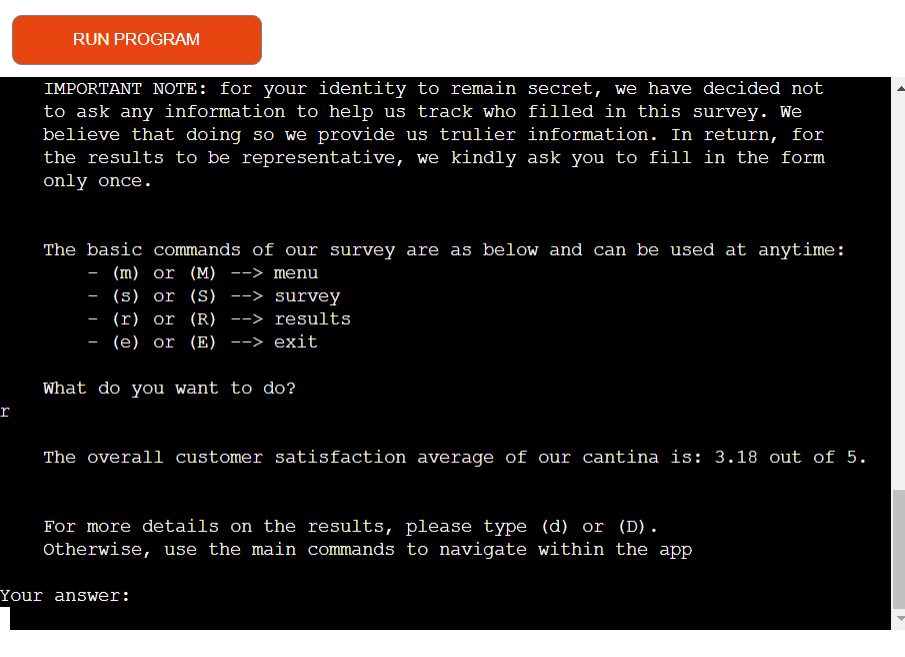
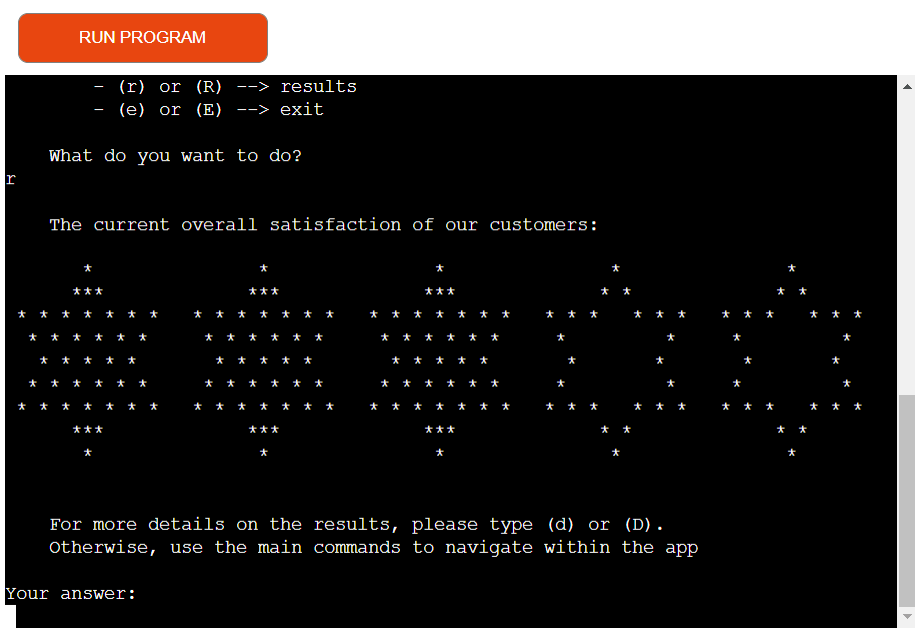
Update screenshot of results

diff --git a/run.py b/run.py
@@ -210,12 +210,14 @@ def show_results(user_answers: list, starting_question: int) -> None:
         average_satisfaction_per_question.append((question.name, sum(column:=survey_num_results.get(question.name)) / len(column)))
     overall_satisfaction_average = calculate_overall_satisfaction_average(average_satisfaction_per_question)
     print()
-    print(f"    The current overall satisfaction of our customers:")
+    print("    --------------------------------------------------")
+    print("    The current overall satisfaction of our customers:")
     display_5_stars_rating(overall_satisfaction_average)
     print("""
     For more details on the results, please type (d) or (D).
     Otherwise, use the main commands to navigate within the app
     """)
+    print("    --------------------------------------------------")
     answer = input("Your answer: \n")
     if answer.lower() == "d":
         convert_results_into_charts(survey_text_results)
@@ -234,135 +236,135 @@ def calculate_overall_satisfaction_average(average_satisfaction_per_question: li
 def display_5_stars_rating(average: float) -> str:
     if 0 <= average < 0.5:
         rating = """
-       *               *               *               *               *        
-      * *             * *             * *             * *             * *       
- * * *   * * *   * * *   * * *   * * *   * * *   * * *   * * *   * * *   * * *  
-  *         *     *         *     *         *     *         *     *         *   
-   *       *       *       *       *       *       *       *       *       *    
-  *         *     *         *     *         *     *         *     *         *   
- * * *   * * *   * * *   * * *   * * *   * * *   * * *   * * *   * * *   * * *  
-      * *             * *             * *             * *             * *       
-       *               *               *               *               *        
+       *               *               *               *               *
+      * *             * *             * *             * *             * *
+ * * *   * * *   * * *   * * *   * * *   * * *   * * *   * * *   * * *   * * *
+  *         *     *         *     *         *     *         *     *         *
+   *       *       *       *       *       *       *       *       *       *
+  *         *     *         *     *         *     *         *     *         *
+ * * *   * * *   * * *   * * *   * * *   * * *   * * *   * * *   * * *   * * *
+      * *             * *             * *             * *             * *
+       *               *               *               *               *
         """
     elif 0.5 <= average < 1:
         rating = """
-       *               *               *               *               *        
-      ***             * *             * *             * *             * *       
- * * * * * * *   * * *   * * *   * * *   * * *   * * *   * * *   * * *   * * *  
-  * * *     *     *         *     *         *     *         *     *         *   
-   * * *   *       *       *       *       *       *       *       *       *    
-  * * *     *     *         *     *         *     *         *     *         *   
- * * * * * * *   * * *   * * *   * * *   * * *   * * *   * * *   * * *   * * *  
-      ***             * *             * *             * *             * *       
-       *               *               *               *               *        
+       *               *               *               *               *
+      ***             * *             * *             * *             * *
+ * * * * * * *   * * *   * * *   * * *   * * *   * * *   * * *   * * *   * * *
+  * * *     *     *         *     *         *     *         *     *         *
+   * * *   *       *       *       *       *       *       *       *       *
+  * * *     *     *         *     *         *     *         *     *         *
+ * * * * * * *   * * *   * * *   * * *   * * *   * * *   * * *   * * *   * * *
+      ***             * *             * *             * *             * *
+       *               *               *               *               *
         """
     elif 1 <= average < 1.5:
         rating = """
-       *               *               *               *               *        
-      ***             * *             * *             * *             * *       
- * * * * * * *   * * *   * * *   * * *   * * *   * * *   * * *   * * *   * * *  
-  * * * * * *     *         *     *         *     *         *     *         *   
-   * * * * *       *       *       *       *       *       *       *       *    
-  * * * * * *     *         *     *         *     *         *     *         *   
- * * * * * * *   * * *   * * *   * * *   * * *   * * *   * * *   * * *   * * *  
-      ***             * *             * *             * *             * *       
-       *               *               *               *               *        
+       *               *               *               *               *
+      ***             * *             * *             * *             * *
+ * * * * * * *   * * *   * * *   * * *   * * *   * * *   * * *   * * *   * * *
+  * * * * * *     *         *     *         *     *         *     *         *
+   * * * * *       *       *       *       *       *       *       *       *
+  * * * * * *     *         *     *         *     *         *     *         *
+ * * * * * * *   * * *   * * *   * * *   * * *   * * *   * * *   * * *   * * *
+      ***             * *             * *             * *             * *
+       *               *               *               *               *
         """
     elif 1.5 <= average < 2:
         rating = """
-       *               *               *               *               *        
-      ***             ***             * *             * *             * *       
- * * * * * * *   * * * * * * *   * * *   * * *   * * *   * * *   * * *   * * *  
-  * * * * * *     * * *     *     *         *     *         *     *         *   
-   * * * * *       * * *   *       *       *       *       *       *       *    
-  * * * * * *     * * *     *     *         *     *         *     *         *   
- * * * * * * *   * * * * * * *   * * *   * * *   * * *   * * *   * * *   * * *  
-      ***             ***             * *             * *             * *       
-       *               *               *               *               *        
+       *               *               *               *               *
+      ***             ***             * *             * *             * *
+ * * * * * * *   * * * * * * *   * * *   * * *   * * *   * * *   * * *   * * *
+  * * * * * *     * * *     *     *         *     *         *     *         *
+   * * * * *       * * *   *       *       *       *       *       *       *
+  * * * * * *     * * *     *     *         *     *         *     *         *
+ * * * * * * *   * * * * * * *   * * *   * * *   * * *   * * *   * * *   * * *
+      ***             ***             * *             * *             * *
+       *               *               *               *               *
         """
     elif 2 <= average < 2.5:
         rating = """
-       *               *               *               *               *        
-      ***             ***             * *             * *             * *       
- * * * * * * *   * * * * * * *   * * *   * * *   * * *   * * *   * * *   * * *  
-  * * * * * *     * * * * * *     *         *     *         *     *         *   
-   * * * * *       * * * * *       *       *       *       *       *       *    
-  * * * * * *     * * * * * *     *         *     *         *     *         *   
- * * * * * * *   * * * * * * *   * * *   * * *   * * *   * * *   * * *   * * *  
-      ***             ***             * *             * *             * *       
-       *               *               *               *               *        
+       *               *               *               *               *
+      ***             ***             * *             * *             * *
+ * * * * * * *   * * * * * * *   * * *   * * *   * * *   * * *   * * *   * * *
+  * * * * * *     * * * * * *     *         *     *         *     *         *
+   * * * * *       * * * * *       *       *       *       *       *       *
+  * * * * * *     * * * * * *     *         *     *         *     *         *
+ * * * * * * *   * * * * * * *   * * *   * * *   * * *   * * *   * * *   * * *
+      ***             ***             * *             * *             * *
+       *               *               *               *               *
         """
     elif 2.5 <= average < 3:
         rating = """
-       *               *               *               *               *        
-      ***             ***             ***             * *             * *       
- * * * * * * *   * * * * * * *   * * * * * * *   * * *   * * *   * * *   * * *  
-  * * * * * *     * * * * * *     * * *     *     *         *     *         *   
-   * * * * *       * * * * *       * * *   *       *       *       *       *    
-  * * * * * *     * * * * * *     * * *     *     *         *     *         *   
- * * * * * * *   * * * * * * *   * * * * * * *   * * *   * * *   * * *   * * *  
-      ***             ***             ***             * *             * *       
-       *               *               *               *               *        
+       *               *               *               *               *
+      ***             ***             ***             * *             * *
+ * * * * * * *   * * * * * * *   * * * * * * *   * * *   * * *   * * *   * * *
+  * * * * * *     * * * * * *     * * *     *     *         *     *         *
+   * * * * *       * * * * *       * * *   *       *       *       *       *
+  * * * * * *     * * * * * *     * * *     *     *         *     *         *
+ * * * * * * *   * * * * * * *   * * * * * * *   * * *   * * *   * * *   * * *
+      ***             ***             ***             * *             * *
+       *               *               *               *               *
         """
     elif 3 <= average < 3.5:
         rating = """
-       *               *               *               *               *        
-      ***             ***             ***             * *             * *       
- * * * * * * *   * * * * * * *   * * * * * * *   * * *   * * *   * * *   * * *  
-  * * * * * *     * * * * * *     * * * * * *     *         *     *         *   
-   * * * * *       * * * * *       * * * * *       *       *       *       *    
-  * * * * * *     * * * * * *     * * * * * *     *         *     *         *   
- * * * * * * *   * * * * * * *   * * * * * * *   * * *   * * *   * * *   * * *  
-      ***             ***             ***             * *             * *       
-       *               *               *               *               *        
+       *               *               *               *               *
+      ***             ***             ***             * *             * *
+ * * * * * * *   * * * * * * *   * * * * * * *   * * *   * * *   * * *   * * *
+  * * * * * *     * * * * * *     * * * * * *     *         *     *         *
+   * * * * *       * * * * *       * * * * *       *       *       *       *
+  * * * * * *     * * * * * *     * * * * * *     *         *     *         *
+ * * * * * * *   * * * * * * *   * * * * * * *   * * *   * * *   * * *   * * *
+      ***             ***             ***             * *             * *
+       *               *               *               *               *
         """
     elif 3.5 <= average < 4:
         rating = """
-       *               *               *               *               *        
-      ***             ***             ***             ***             * *       
- * * * * * * *   * * * * * * *   * * * * * * *   * * * * * * *   * * *   * * *  
-  * * * * * *     * * * * * *     * * * * * *     * * *     *     *         *   
-   * * * * *       * * * * *       * * * * *       * * *   *       *       *    
-  * * * * * *     * * * * * *     * * * * * *     * * *     *     *         *   
- * * * * * * *   * * * * * * *   * * * * * * *   * * * * * * *   * * *   * * *  
-      ***             ***             ***             ***             * *       
-       *               *               *               *               *        
+       *               *               *               *               *
+      ***             ***             ***             ***             * *
+ * * * * * * *   * * * * * * *   * * * * * * *   * * * * * * *   * * *   * * *
+  * * * * * *     * * * * * *     * * * * * *     * * *     *     *         *
+   * * * * *       * * * * *       * * * * *       * * *   *       *       *
+  * * * * * *     * * * * * *     * * * * * *     * * *     *     *         *
+ * * * * * * *   * * * * * * *   * * * * * * *   * * * * * * *   * * *   * * *
+      ***             ***             ***             ***             * *
+       *               *               *               *               *
         """
     elif 4 <= average < 4.5:
         rating = """
-       *               *               *               *               *        
-      ***             ***             ***             ***             * *       
- * * * * * * *   * * * * * * *   * * * * * * *   * * * * * * *   * * *   * * *  
-  * * * * * *     * * * * * *     * * * * * *     * * * * * *     *         *   
-   * * * * *       * * * * *       * * * * *       * * * * *       *       *    
-  * * * * * *     * * * * * *     * * * * * *     * * * * * *     *         *   
- * * * * * * *   * * * * * * *   * * * * * * *   * * * * * * *   * * *   * * *  
-      ***             ***             ***             ***             * *       
-       *               *               *               *               *        
+       *               *               *               *               *
+      ***             ***             ***             ***             * *
+ * * * * * * *   * * * * * * *   * * * * * * *   * * * * * * *   * * *   * * *
+  * * * * * *     * * * * * *     * * * * * *     * * * * * *     *         *
+   * * * * *       * * * * *       * * * * *       * * * * *       *       *
+  * * * * * *     * * * * * *     * * * * * *     * * * * * *     *         *
+ * * * * * * *   * * * * * * *   * * * * * * *   * * * * * * *   * * *   * * *
+      ***             ***             ***             ***             * *
+       *               *               *               *               *
         """
     elif 4.5 <= average < 5:
         rating = """
-       *               *               *               *               *        
-      ***             ***             ***             ***             ***       
- * * * * * * *   * * * * * * *   * * * * * * *   * * * * * * *   * * * * * * *  
-  * * * * * *     * * * * * *     * * * * * *     * * * * * *     * * *     *   
-   * * * * *       * * * * *       * * * * *       * * * * *       * * *   *    
-  * * * * * *     * * * * * *     * * * * * *     * * * * * *     * * *     *   
- * * * * * * *   * * * * * * *   * * * * * * *   * * * * * * *   * * * * * * *  
-      ***             ***             ***             ***             ***       
-       *               *               *               *               *        
+       *               *               *               *               *
+      ***             ***             ***             ***             ***
+ * * * * * * *   * * * * * * *   * * * * * * *   * * * * * * *   * * * * * * *
+  * * * * * *     * * * * * *     * * * * * *     * * * * * *     * * *     *
+   * * * * *       * * * * *       * * * * *       * * * * *       * * *   *
+  * * * * * *     * * * * * *     * * * * * *     * * * * * *     * * *     *
+ * * * * * * *   * * * * * * *   * * * * * * *   * * * * * * *   * * * * * * *
+      ***             ***             ***             ***             ***
+       *               *               *               *               *
         """
     else:
         rating = """
-       *               *               *               *               *        
-      ***             ***             ***             ***             ***       
- * * * * * * *   * * * * * * *   * * * * * * *   * * * * * * *   * * * * * * *  
-  * * * * * *     * * * * * *     * * * * * *     * * * * * *     * * * * * *   
-   * * * * *       * * * * *       * * * * *       * * * * *       * * * * *    
-  * * * * * *     * * * * * *     * * * * * *     * * * * * *     * * * * * *   
- * * * * * * *   * * * * * * *   * * * * * * *   * * * * * * *   * * * * * * *  
-      ***             ***             ***             ***             ***       
-       *               *               *               *               *        
+       *               *               *               *               *
+      ***             ***             ***             ***             ***
+ * * * * * * *   * * * * * * *   * * * * * * *   * * * * * * *   * * * * * * *
+  * * * * * *     * * * * * *     * * * * * *     * * * * * *     * * * * * *
+   * * * * *       * * * * *       * * * * *       * * * * *       * * * * *
+  * * * * * *     * * * * * *     * * * * * *     * * * * * *     * * * * * *
+ * * * * * * *   * * * * * * *   * * * * * * *   * * * * * * *   * * * * * * *
+      ***             ***             ***             ***             ***
+       *               *               *               *               *
         """
     print(rating)
 
